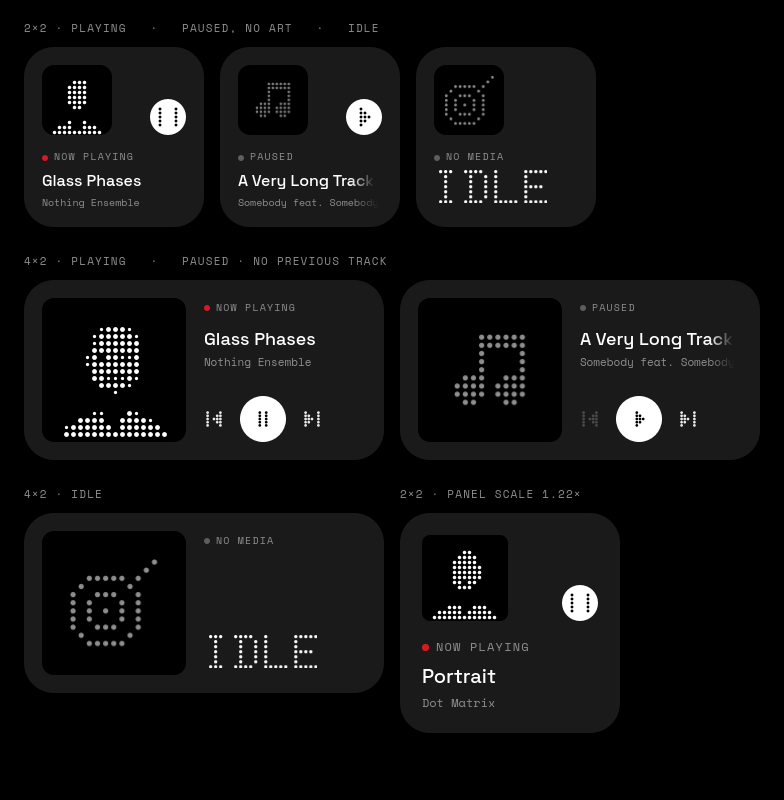
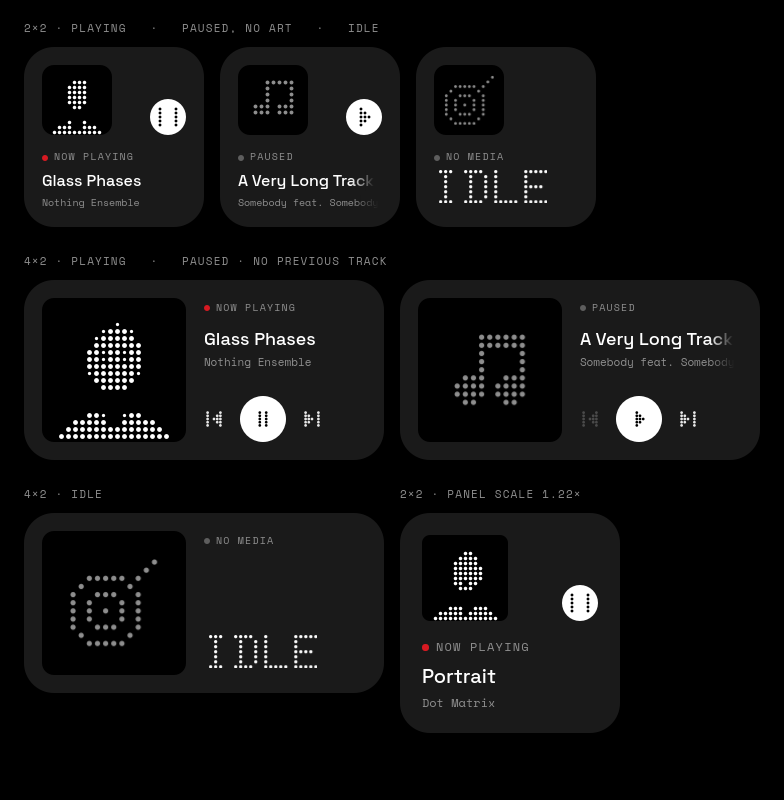
cc+media: placeholder dots, label grey

Changed region(s): [[0.0612, 0.4062, 0.2143, 0.5625], [0.551, 0.6875, 0.6429, 0.7812], [0.3061, 0.0938, 0.398, 0.1562]]

diff --git a/plasma/plasmoids/shared/DotGlyph.qml b/plasma/plasmoids/shared/DotGlyph.qml
@@ -25,9 +25,14 @@ Canvas {
     property color dimColor: Theme.dotDim
     property real dotRatio: Theme.dotRatio
     property bool alignTop: false      // pin the grid to the top edge instead of centring
+    // snap: whole-pixel pitch, dot centres on pixel centres, dots ≥ minDot px —
+    // for small glyphs that would otherwise blur into a grey grille.
+    property bool snap: false
+    property real minDot: 3
     readonly property int nRows: shown.length
     readonly property int nCols: nRows ? shown[0].length : 0
-    readonly property real pitch: nRows ? Math.min(width / nCols, height / nRows) : 0
+    readonly property real pitch: nRows ? (snap ? Math.max(1, Math.floor(Math.min(width / nCols, height / nRows)))
+                                                 : Math.min(width / nCols, height / nRows)) : 0
 
     implicitWidth: 110
     implicitHeight: 110
@@ -44,16 +49,19 @@ Canvas {
         const c = getContext("2d");
         c.reset();
         if (!nRows) return;
-        const p = pitch, r = p * dotRatio / 2;
+        const p = pitch, r = snap ? Math.max(minDot, p * dotRatio) / 2 : p * dotRatio / 2;
         if (!(r > 0)) return;
-        const ox = (width - p * nCols) / 2, oy = (height - p * nRows) / 2;
+        let ox = (width - p * nCols) / 2, oy = alignTop ? 0 : (height - p * nRows) / 2;
+        if (snap) { ox = Math.round(ox); oy = Math.round(oy); }
+        const cxOf = (x) => snap ? Math.floor(ox + (x + 0.5) * p) + 0.5 : ox + (x + 0.5) * p;
+        const cyOf = (y) => snap ? Math.floor(oy + (y + 0.5) * p) + 0.5 : oy + (y + 0.5) * p;
         const col = { "#": litColor, "+": halfColor, "r": redColor, ".": dimColor };
         for (let y = 0; y < nRows; y++)
             for (let x = 0; x < nCols; x++) {
                 const f = col[shown[y][x]];
                 if (!f || f.a === 0) continue;
                 c.beginPath();
-                c.arc(ox + (x + 0.5) * p, oy + (y + 0.5) * p, r, 0, Math.PI * 2);
+                c.arc(cxOf(x), cyOf(y), r, 0, Math.PI * 2);
                 c.fillStyle = f;
                 c.fill();
             }

diff --git a/plasma/plasmoids/shared/ArtCanvas.qml b/plasma/plasmoids/shared/ArtCanvas.qml
@@ -16,6 +16,7 @@ Item {
     property real fadeBottom: 0.4        // ... and at the bottom (text band)
     property real fadeRamp: 0.14         // soft ramp beyond the clear bands
     property int levels: 4               // posterisation levels for dot sizes
+    property int edgeCut: 0x40           // alpha below this is dropped (no grey links)
     property real minDot: 2.5            // px; smaller dots are dropped
     property real maxDot: 0.92           // largest dot diameter as a fraction of the cell (< 0.75 keeps clear gaps)
     property color matte: Theme.widget   // colour behind the corners (mono mode)
@@ -87,8 +88,10 @@ Item {
                     return ax * ax + ay * ay <= (r - m) * (r - m);
                 };
                 const ft = h * root.fadeTop, fb = h * root.fadeBottom;
-                for (let cy = 0; cy + p <= h + 0.01; cy += p) {
-                    for (let cx = 0; cx + p <= w + 0.01; cx += p) {
+                // centre the dot grid on the tile (leftover split evenly on both sides)
+                const gx = (w - Math.floor(w / p) * p) / 2, gy = (h - Math.floor(h / p) * p) / 2;
+                for (let cy = gy; cy + p <= h + 0.01; cy += p) {
+                    for (let cx = gx; cx + p <= w + 0.01; cx += p) {
                         let sum = 0, n = 0;
                         for (let y = Math.floor(cy); y < Math.min(h, cy + p); y += 2)
                             for (let x = Math.floor(cx); x < Math.min(w, cx + p); x += 2) {
@@ -117,6 +120,10 @@ Item {
                         c.fill();
                     }
                 }
+                // edge threshold: faint antialias fringe between close dots → pure black
+                const out = c.getImageData(0, 0, w, h), o = out.data;
+                for (let i = 3; i < o.length; i += 4) if (o[i] < root.edgeCut) { o[i] = 0; o[i - 1] = o[i - 2] = o[i - 3] = 0; }
+                c.putImageData(out, 0, 0);
             }
         }
     }

diff --git a/plasma/plasmoids/org.nothing.controlcenter/contents/ui/MediaCard.qml b/plasma/plasmoids/org.nothing.controlcenter/contents/ui/MediaCard.qml
@@ -47,8 +47,10 @@ Rectangle {
             DotGlyph {
                 anchors.centerIn: parent
                 visible: !art.ready
-                width: 36; height: 36
-                icon: "note"
+                // 7×7 note at a whole 5px pitch, 3px+ dots on pixel centres
+                width: 35; height: 35
+                icon: "note_s"
+                snap: true
                 dimColor: "transparent"
                 litColor: Theme.fg2
                 halfColor: Theme.fg2
@@ -68,7 +70,7 @@ Rectangle {
                     width: 6; height: 6; radius: 3
                     color: root.playing ? (root.accent ? Theme.red : Theme.fg) : Theme.fg3
                 }
-                Label { text: root.app; size: 9; color: Theme.fg3; elide: Text.ElideRight }
+                Label { text: root.app; size: 11; color: Theme.fg2; elide: Text.ElideRight }
             }
             Text {
                 Layout.fillWidth: true

diff --git a/plasma/plasmoids/org.nothing.media/contents/ui/MediaFace.qml b/plasma/plasmoids/org.nothing.media/contents/ui/MediaFace.qml
@@ -133,8 +133,10 @@ Card {
             color: Theme.bg
             DotGlyph {
                 anchors.centerIn: parent
-                width: parent.width * 0.62; height: width
-                icon: "note"
+                // 7×7 note at a whole-pixel pitch (≥ 5px), dots on pixel centres
+                width: Math.max(35, Math.floor(parent.width * 0.62 / 7) * 7); height: width
+                icon: "note_s"
+                snap: true
                 dimColor: "transparent"
                 litColor: Theme.fg2
             }

diff --git a/previews/ControlCenterPreview.qml b/previews/ControlCenterPreview.qml
@@ -35,7 +35,7 @@ Rectangle {
             micAvailable: true; micVolume: 0.35
             mediaActive: true; mediaPlaying: true
             mediaTitle: "Glyph Interface"; mediaArtist: "Teenage Engineering"; mediaApp: "Spotify"
-            mediaArt: "file:///usr/share/wallpapers/Altai/contents/images/1080x1920.png"   // mock cover
+            mediaArt: Qt.resolvedUrl("mock-art.png")   // mock cover (high-contrast square portrait)
         }
         ControlPanel {
             width: 420; height: implicitHeight
